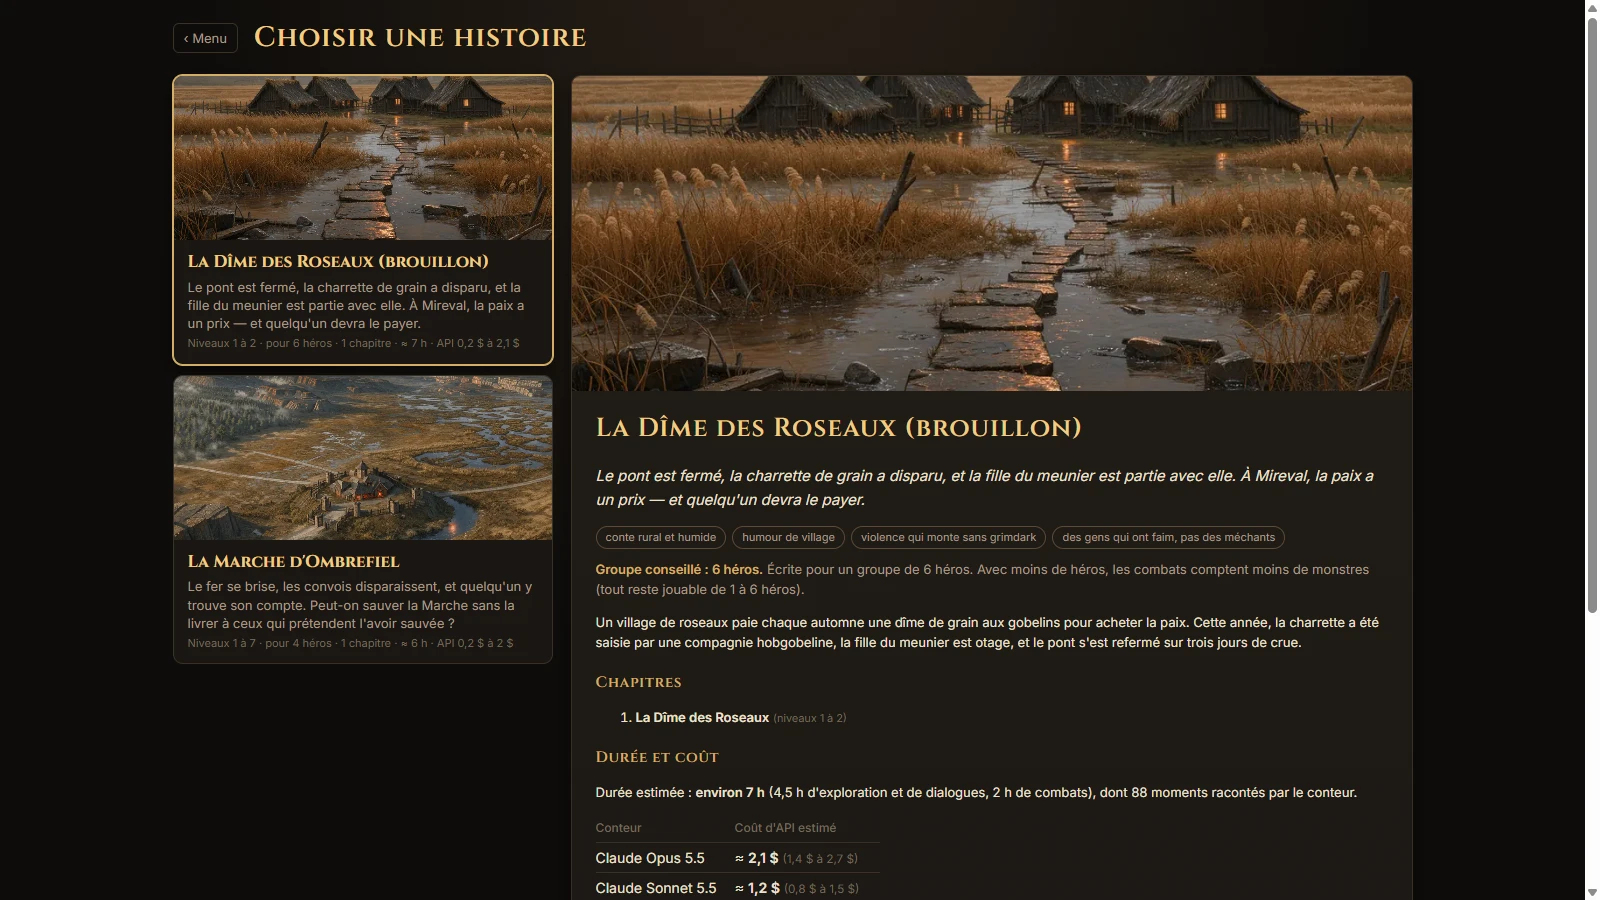
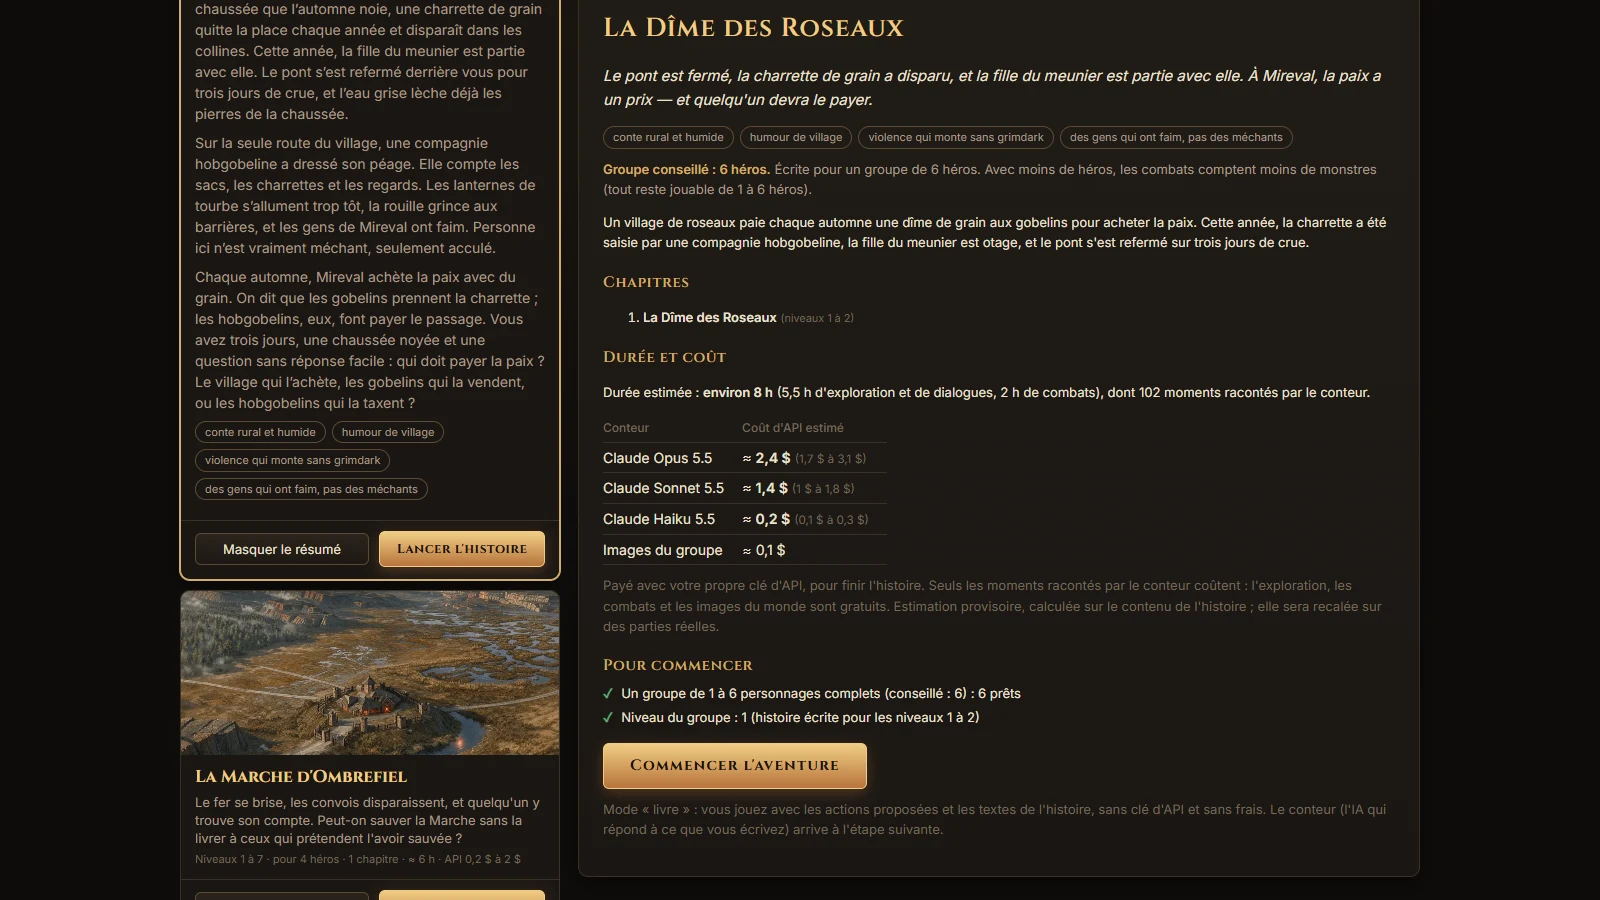
Site : trois histoires jouables, nouveautés du 12 au 15 novembre, capture de l'écran des histoires
- Section Histoires : La Dîme des Roseaux, La Tombe des Rois Serpents et le prologue de La Marche d'Ombrefiel (niveaux, durées, fins, coûts).
- Chiffre clé, état du jeu et neuf nouveautés mis à jour ; seul ce qui est livré est annoncé.
- Capture « Choisir une histoire » refaite (résumé ouvert, boutons Lancer actifs).

diff --git a/site/index.html b/site/index.html
@@ -32,12 +32,12 @@
 </section>
 
 <section class="chiffres" aria-label="Le jeu en chiffres">
-  <div><b>1 à 6</b><span>héros dans votre groupe</span></div><div><b>9</b><span>espèces à choisir, de la drakéide au tieffelin</span></div><div><b>12</b><span>classes, du niveau 1 au niveau 20</span></div><div><b>339</b><span>sorts du SRD, du tour de magie au niveau 9</span></div><div><b>329</b><span>monstres du bestiaire, tous illustrés</span></div><div><b>400+</b><span>objets illustrés</span></div><div><b>1</b><span>histoire jouable, en prologue</span></div><div><b>54</b><span>portraits à choisir pour vos héros</span></div>
+  <div><b>1 à 6</b><span>héros dans votre groupe</span></div><div><b>9</b><span>espèces à choisir, de la drakéide au tieffelin</span></div><div><b>12</b><span>classes, du niveau 1 au niveau 20</span></div><div><b>339</b><span>sorts du SRD, du tour de magie au niveau 9</span></div><div><b>329</b><span>monstres du bestiaire, tous illustrés</span></div><div><b>400+</b><span>objets illustrés</span></div><div><b>3</b><span>histoires jouables, de 6 à 11 heures</span></div><div><b>54</b><span>portraits à choisir pour vos héros</span></div>
 </section>
 
 <section id="nouveautes" class="bloc nouveautes">
   <div class="entete"><p class="num">Nouveautés</p><h2>Ce qui a changé dans le jeu</h2><p>Le jeu avance par lots. Voici les changements les plus visibles.</p></div>
-  <div class="piliers"><div class="pilier"><b>1</b><h3>La feuille de personnage devient l'inventaire</h3><p>Ouverte en grand : l'équipement sur une silhouette, le sac du groupe à côté, la fiche complète dans un second onglet.</p></div><div class="pilier"><b>2</b><h3>Deux jeux d'armes, en combat aussi</h3><p>Un héros porte deux jeux d'armes. En combat, la carte « Changer d'armes » prend l'autre, gratuitement, une fois par tour. La main gauche tient un bouclier ou une arme Légère.</p></div><div class="pilier"><b>3</b><h3>Des combats qui se voient et s'entendent</h3><p>Treize familles de dégâts, des projectiles et des auras sur les jetons, des bruitages, cinq musiques d'ambiance, et des cris de combat propres à chaque race.</p></div><div class="pilier"><b>4</b><h3>Des personnages qui parlent</h3><p>Les salutations de certains PNJ sont dites à voix haute. Les conversations ont leur boîte de dialogue, des réponses numérotées (touches 1 à 9) et une option « Dis-le plus simplement ».</p></div><div class="pilier"><b>5</b><h3>Un monde qui se souvient</h3><p>Les PNJ réagissent à ce que le groupe a fait, les témoins vous voient forcer une serrure, et le codex garde ce que vous savez et d'où vous le tenez.</p></div><div class="pilier"><b>6</b><h3>Explorer avec plus de sens</h3><p>Examiner un détail du décor, un récit à l'arrivée dans chaque lieu, une phrase sous chaque sortie, et la liste de ceux qu'on croise.</p></div><div class="pilier"><b>7</b><h3>Des épreuves en plein écran</h3><p>Crochetage, désamorçage de piège, rencontres à choix, parchemins de quête et montée de niveau avec vos choix : chacun a son écran.</p></div><div class="pilier"><b>8</b><h3>Des monstres lisibles</h3><p>Chaque rencontre montre ses créatures, avec leur image et leur description. Un clic sur un ennemi affiche ses renseignements. Le couvert donne +2 à la CA.</p></div><div class="pilier"><b>9</b><h3>Un groupe de 4 ou 6</h3><p>Le groupe peut compter 4 ou 6 héros, chaque histoire annonce la taille qu'elle vise, et le kit de départ est allégé : le reste se trouve à acheter.</p></div></div>
+  <div class="piliers"><div class="pilier"><b>1</b><h3>Trois histoires jouables</h3><p>La Dîme des Roseaux et La Tombe des Rois Serpents se jouent jusqu'à leurs fins ; le prologue de La Marche d'Ombrefiel a maintenant deux fins.</p></div><div class="pilier"><b>2</b><h3>Choisir son histoire, en un clic</h3><p>Chaque histoire a son résumé qui donne envie, et un bouton « Lancer l'histoire » qui démarre tout de suite quand le groupe est prêt.</p></div><div class="pilier"><b>3</b><h3>Des dialogues plus lisibles</h3><p>Toute la conversation reste à l'écran, l'attitude du personnage s'affiche, et les jets d'influence annoncent leur compétence, leur DD et le meilleur orateur.</p></div><div class="pilier"><b>4</b><h3>Des boutiques illustrées</h3><p>Les marchands ont leur vitrine : image, résumé, prix, et les héros qui peuvent porter chaque article.</p></div><div class="pilier"><b>5</b><h3>Une boussole de quête</h3><p>La quête suivie et son objectif sont dans l'en-tête, avec l'heure lisible et de petits badges (−15 po, +50 PX). Un achat ou un déplacement sans jet de dé peut s'annuler.</p></div><div class="pilier"><b>6</b><h3>Des combats plus lisibles</h3><p>Les attaques d'opportunité sont annoncées sur le chemin, la piste d'initiative éclaire les jetons, le bouton « Rapide » est à portée, et l'écran de fin dit qu'un héros tombé est relevé à 1 PV.</p></div><div class="pilier"><b>7</b><h3>Une carte et un équipement plus directs</h3><p>Un double-clic sur la carte suffit pour s'y rendre, avec les chemins et leur durée. Sur la feuille, un comparateur montre ce que change un objet avant de l'équiper.</p></div><div class="pilier"><b>8</b><h3>Un créateur qui montre le résultat</h3><p>PV, CA, attaque et sorts se calculent en direct pendant la création ; le choix des sorts se filtre par ceux qui servent en combat.</p></div><div class="pilier"><b>9</b><h3>Des Options pour lire à son aise</h3><p>Taille du texte de 100 à 130 %, animations réduites, et l'état du conteur : le jeu s'adapte à votre écran.</p></div></div>
 </section>
 
 <section id="presentation" class="bloc intro">
@@ -106,14 +106,15 @@
   <div class="colonne">
     <div class="texte">
       <p class="num">04</p>
-      <h2>Un prologue jouable, la suite en écriture</h2>
-      <p class="accroche">Le prologue de La Marche d'Ombrefiel se joue de bout en bout : sa carte, ses lieux illustrés, ses dilemmes et sa première quête.</p>
-      <p>La Marche d'Ombrefiel (le prologue : niveaux 1 à 3, environ 6 heures) : depuis six mois, le fer neuf de la Marche se brise. Du Carrefour d'Aldric, le groupe commence à remonter le sabotage.</p>
-      <p>La suite de l'histoire est en cours d'écriture, jusqu'à l'Échéance du Conseil. La Dîme des Roseaux, un monde court, est encore en brouillon.</p>
-      <p>Une histoire s'ouvre sur un film d'ouverture, avec des images en fondu et un texte lu par la voix du conteur. Des scènes racontées marquent les moments clés.</p>
-      <ul class="puces"><li>Un prologue jouable : la zone du Carrefour d'Aldric</li><li>Niveaux 1 à 3, environ 6 heures</li><li>La suite de La Marche : en cours d’écriture</li><li>La Dîme des Roseaux : en brouillon</li><li>Un film d’ouverture, avec des images en fondu et une voix</li><li>Des dilemmes à trancher, et des choix qui coûtent</li></ul>
+      <h2>Trois histoires à jouer</h2>
+      <p class="accroche">Une enquête de village, un donjon de pillards et le prologue d'une conspiration : chaque histoire a ses lieux illustrés, ses personnages, ses quêtes et ses choix qui coûtent.</p>
+      <p>La Dîme des Roseaux (niveaux 1 à 2, environ 8 heures, 4 fins) : à Mireval, village de roseaux, la charrette de grain a disparu, la fille du meunier est partie avec elle et le pont est fermé pour trois jours de crue. Qui doit payer la paix ?</p>
+      <p>La Tombe des Rois Serpents (niveaux 1 à 3, environ 11 heures, 5 fins) : engagé à moitié-part par un noble pour piller une nécropole oubliée, le groupe descend dans trois niveaux de pièges, de sépulcres et de créatures reptiliennes, sous l'œil d'un valet qui compte le butin.</p>
+      <p>La Marche d'Ombrefiel (le prologue : environ 6 heures, 2 fins) : depuis six mois, le fer neuf de la Marche se brise. Du Carrefour d'Aldric, le groupe commence à remonter le sabotage. La suite, jusqu'à l'Échéance du Conseil, est en écriture.</p>
+      <p>Chaque histoire se présente par un résumé qui donne envie de jouer, puis se lance d'un bouton. Des scènes racontées par la voix du conteur marquent les moments clés.</p>
+      <ul class="puces"><li>Trois histoires jouables : La Dîme des Roseaux, La Tombe des Rois Serpents et le prologue de La Marche d'Ombrefiel</li><li>De 6 à 11 heures chacune, de 0,2 $ à 3,2 $ de coût d’API selon le modèle du conteur</li><li>Un résumé pour chaque histoire, et un bouton pour la lancer</li><li>De 2 à 5 fins, qui coûtent chacune quelque chose</li><li>Des dilemmes à trancher, et des choix qui coûtent</li><li>Des scènes racontées, avec la voix du conteur</li></ul>
     </div>
-    <div class="vue"><figure class="gros"><button class="zoom" data-src="images/ecrans/histoires.webp" data-leg="La liste des histoires : La Marche d'Ombrefiel, avec son illustration, et La Dîme des Roseaux, marquée comme brouillon." aria-label="Agrandir : La liste des histoires : La Marche d'Ombrefiel, avec son illustration, et La Dîme des Roseaux, marquée comme brouillon."><img src="images/ecrans/histoires.webp" alt="La liste des histoires : La Marche d'Ombrefiel, avec son illustration, et La Dîme des Roseaux, marquée comme brouillon." loading="lazy"></button><figcaption>La liste des histoires : La Marche d'Ombrefiel, avec son illustration, et La Dîme des Roseaux, marquée comme brouillon.</figcaption></figure></div>
+    <div class="vue"><figure class="gros"><button class="zoom" data-src="images/ecrans/histoires.webp" data-leg="L'écran « Choisir une histoire » : le résumé d'une histoire (ici La Dîme des Roseaux) se déplie d'un bouton, et « Lancer l'histoire » démarre l'aventure." aria-label="Agrandir : L'écran « Choisir une histoire » : le résumé d'une histoire (ici La Dîme des Roseaux) se déplie d'un bouton, et « Lancer l'histoire » démarre l'aventure."><img src="images/ecrans/histoires.webp" alt="L'écran « Choisir une histoire » : le résumé d'une histoire (ici La Dîme des Roseaux) se déplie d'un bouton, et « Lancer l'histoire » démarre l'aventure." loading="lazy"></button><figcaption>L'écran « Choisir une histoire » : le résumé d'une histoire (ici La Dîme des Roseaux) se déplie d'un bouton, et « Lancer l'histoire » démarre l'aventure.</figcaption></figure></div>
   </div>
   <div class="galerie g1"><figure class=""><button class="zoom" data-src="images/ecrans/carte-monde.webp" data-leg="La carte du monde de La Marche, en plein écran : les lieux connus et l'endroit où l'on se trouve." aria-label="Agrandir : La carte du monde de La Marche, en plein écran : les lieux connus et l'endroit où l'on se trouve."><img src="images/ecrans/carte-monde.webp" alt="La carte du monde de La Marche, en plein écran : les lieux connus et l'endroit où l'on se trouve." loading="lazy"></button><figcaption>La carte du monde de La Marche, en plein écran : les lieux connus et l'endroit où l'on se trouve.</figcaption></figure></div>
 </section>
@@ -223,7 +224,7 @@
       <p>En mode livre, on joue avec les textes écrits par les auteurs et les boutons proposés. Aucune clé d'API n'est nécessaire, et cela ne coûte rien.</p>
       <p>Avec le conteur IA, vous écrivez librement ce que vous voulez faire ou dire, tenez de vraies conversations avec les personnages et demandez un récit plus vivant d'une scène.</p>
       <p>Seuls les moments racontés par le conteur coûtent : l'exploration, les combats et les images restent gratuits. Une estimation s'affiche avant de commencer.</p>
-      <ul class="puces"><li>Mode livre : gratuit, sans clé d'API</li><li>Conteur IA : votre propre clé d'API</li><li>Écrivez librement ce que vous voulez faire ou dire</li><li>Conversations avec les personnages</li><li>Un récit plus vivant, sur demande</li><li>Exploration, combats et images : gratuits</li><li>Estimation affichée avant de commencer</li><li>La Marche d'Ombrefiel : environ 6 heures, de 0,2 $ à 2 $ selon le modèle</li></ul>
+      <ul class="puces"><li>Mode livre : gratuit, sans clé d'API</li><li>Conteur IA : votre propre clé d'API</li><li>Écrivez librement ce que vous voulez faire ou dire</li><li>Conversations avec les personnages</li><li>Un récit plus vivant, sur demande</li><li>Exploration, combats et images : gratuits</li><li>Estimation affichée avant de commencer</li><li>De 6 à 11 heures selon l'histoire : de 0,2 $ à 3,2 $ selon le modèle</li></ul>
     </div>
     <div class="vue"><figure class="gros"><button class="zoom" data-src="images/ecrans/histoire-detail.webp" data-leg="La fiche de La Marche d'Ombrefiel : son accroche, sa durée estimée et le coût d'API par modèle, affiché avant de commencer." aria-label="Agrandir : La fiche de La Marche d'Ombrefiel : son accroche, sa durée estimée et le coût d'API par modèle, affiché avant de commencer."><img src="images/ecrans/histoire-detail.webp" alt="La fiche de La Marche d'Ombrefiel : son accroche, sa durée estimée et le coût d'API par modèle, affiché avant de commencer." loading="lazy"></button><figcaption>La fiche de La Marche d'Ombrefiel : son accroche, sa durée estimée et le coût d'API par modèle, affiché avant de commencer.</figcaption></figure></div>
   </div>
@@ -242,7 +243,7 @@
 </section>
 
 <section class="bloc art mondes-galerie">
-  <div class="entete"><h2>Des mondes qui se dessinent</h2><p>La carte, un lieu, une rencontre et la fiche de La Marche d'Ombrefiel, le prologue jouable du jeu.</p></div>
+  <div class="entete"><h2>Des mondes qui se dessinent</h2><p>La carte, un lieu, une rencontre et la fiche de La Marche d'Ombrefiel, l'une des trois histoires du jeu.</p></div>
   <div class="mosaique"><figure><img src="images/ecrans/carte-monde.webp" alt="La carte de La Marche, avec son brouillard" loading="lazy"><figcaption>La carte de La Marche, avec son brouillard</figcaption></figure><figure><img src="images/ecrans/aventure.webp" alt="L'Auberge de Brégor, au cœur de La Marche" loading="lazy"><figcaption>L'Auberge de Brégor, au cœur de La Marche</figcaption></figure><figure><img src="images/ecrans/rencontre.webp" alt="Le chariot enlisé, une rencontre à choix" loading="lazy"><figcaption>Le chariot enlisé, une rencontre à choix</figcaption></figure><figure><img src="images/ecrans/histoire-detail.webp" alt="La fiche de La Marche, avec son coût d’API" loading="lazy"><figcaption>La fiche de La Marche, avec son coût d’API</figcaption></figure></div>
 </section>
 
@@ -274,8 +275,8 @@
 
 <section id="etat" class="bloc etat">
   <h2>Où en est le jeu</h2>
-  <p>La Table du Conteur est un prototype jouable, encore en cours de développement. La Marche d'Ombrefiel est jouable en son prologue ; la suite et La Dîme des Roseaux sont en écriture.</p><p>Le conteur IA est à l'essai. L'écran de réglage de votre clé d'API n'est pas encore là.</p><p>Une application de bureau est en préparation. Elle gardera la clé d'API du joueur dans le trousseau du système.</p>
-  <ul class="puces"><li>Prototype jouable, en cours de développement</li><li>Un prologue jouable : La Marche d'Ombrefiel</li><li>La suite de La Marche en cours d’écriture</li><li>La Dîme des Roseaux en brouillon</li><li>Le conteur IA est à l'essai</li><li>L'écran de réglage de la clé d'API n'est pas encore là</li><li>Application de bureau en préparation</li><li>Clé d'API gardée dans le trousseau du système, sur le bureau</li></ul>
+  <p>La Table du Conteur est un prototype jouable, encore en cours de développement. Trois histoires se jouent aujourd'hui : La Dîme des Roseaux et La Tombe des Rois Serpents, jusqu'à leurs fins, et le prologue de La Marche d'Ombrefiel, dont la suite est en écriture.</p><p>Le conteur IA est à l'essai. L'écran Options règle la taille du texte et les animations ; la saisie de votre clé d'API n'y est pas encore.</p><p>Une application de bureau est en préparation. Elle gardera la clé d'API du joueur dans le trousseau du système.</p>
+  <ul class="puces"><li>Prototype jouable, en cours de développement</li><li>Deux histoires qui se jouent jusqu'à leurs fins : La Dîme des Roseaux et La Tombe des Rois Serpents</li><li>Le prologue de La Marche d'Ombrefiel, dont la suite est en écriture</li><li>Le conteur IA est à l'essai</li><li>La saisie de la clé d'API n'est pas encore dans les Options</li><li>Application de bureau en préparation</li><li>Clé d'API gardée dans le trousseau du système, sur le bureau</li></ul>
 </section>
 </main>
 

diff --git a/docs/JOURNAL.md b/docs/JOURNAL.md
@@ -2324,3 +2324,11 @@ Demande de l'utilisateur : « fais tout comme tu veux ». Cinq sessions, une par
 
 - **Vérifié** : tous les thèmes, niveaux 1 à 10, 1 à 6 héros et les trois difficultés (`faible`, `moderee`, `elevee`) composent une rencontre valide : 0 échec (le test `escarmouche.test.ts` le couvrait déjà pour les niveaux 1 à 5). La note « Constaté, non corrigé » du chantier du groupe de 6 (thèmes Embuscade gobeline, Crypte… en difficulté « facile » et « difficile ») venait d'un essai avec des noms de difficulté qui n'existent pas : le budget devenait `NaN`, aucune ligne n'était retenue et l'erreur tombait sur `undefined.profil`. Aucun appelant du jeu n'envoie ces noms.
 - **Durci** (`combat/escarmouche.ts`) : `budgetDuGroupe` (donc `composerRencontre`) refuse une difficulté inconnue avec une erreur claire (« Difficulté inconnue « facile » (attendu : faible, moderee, elevee) ») ; un thème dont aucune troupe n'est retenue retombe sur la plus faible troupe du thème, et lève une erreur explicite s'il n'en a aucune. Test ajouté (`escarmouche.test.ts`). Typechecks verts. **Pas commité.**
+
+## 15/11/2026 — Site : trois histoires, nouveautés du 12 au 15 novembre
+
+- **Demande de l'utilisateur** : « mets à jour le site ». Texte dans `outils/site/contenu.json`, page générée par `node outils/site/construire.cjs` (`site/index.html`).
+- **Histoires** : la section passe de « un prologue jouable, la suite en écriture » à **« Trois histoires à jouer »** : La Dîme des Roseaux (niveaux 1 à 2, ≈ 8 h, 4 fins), La Tombe des Rois Serpents (niveaux 1 à 3, ≈ 11 h, 5 fins) et le prologue de La Marche d'Ombrefiel (≈ 6 h, 2 fins), chiffres lus dans les `monde.json` et les `estimation.json`. Chiffre clé « 3 histoires jouables, de 6 à 11 heures », bloc « Où en est le jeu » et coûts d'API (0,2 $ à 3,2 $) corrigés ; la galerie des mondes dit « l'une des trois histoires ».
+- **Nouveautés** : neuf cartes remplacent celles du 4 au 12 novembre : trois histoires, choisir son histoire (résumé et « Lancer »), dialogues lisibles, boutiques illustrées, boussole de quête et annulation, combats plus lisibles, carte et comparateur d'équipement, créateur avec aperçu en direct, Options. Seul ce qui est livré est annoncé (pas de clé d'API saisissable, pas de voix des compagnons).
+- **Capture** : `site/images/ecrans/histoires.webp` refaite (écran « Choisir une histoire » avec le résumé de la Dîme ouvert et les boutons Lancer actifs, Chrome sans interface, groupe conseillé injecté). **Pas refaites** : dialogue, boutique, combat, créateur, Options (elles demandent une partie en cours ; les anciennes captures restent).
+- **Vérifié** : page régénérée (11 sections, 18 captures), sections Nouveautés, Histoires et État du jeu relues au rendu (largeur 1440, sans débordement horizontal). **Non publié** : rien n'est poussé ni déployé sur Netlify. **Pas commité.**
